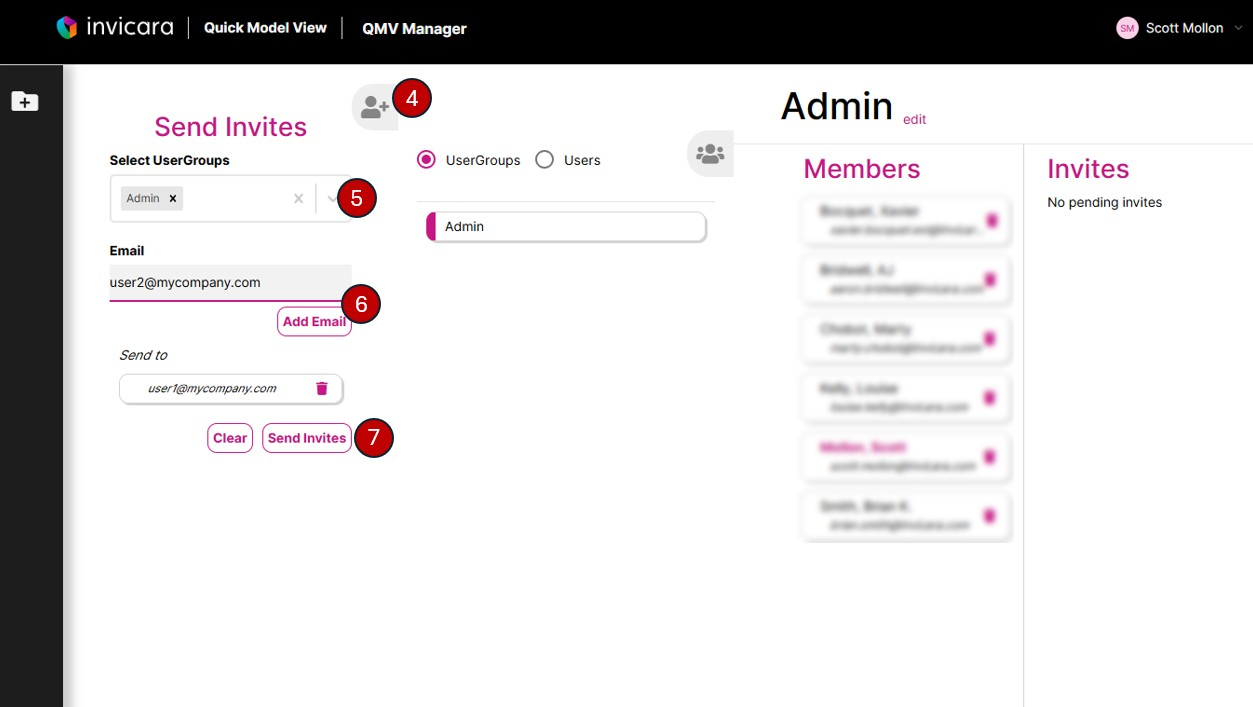
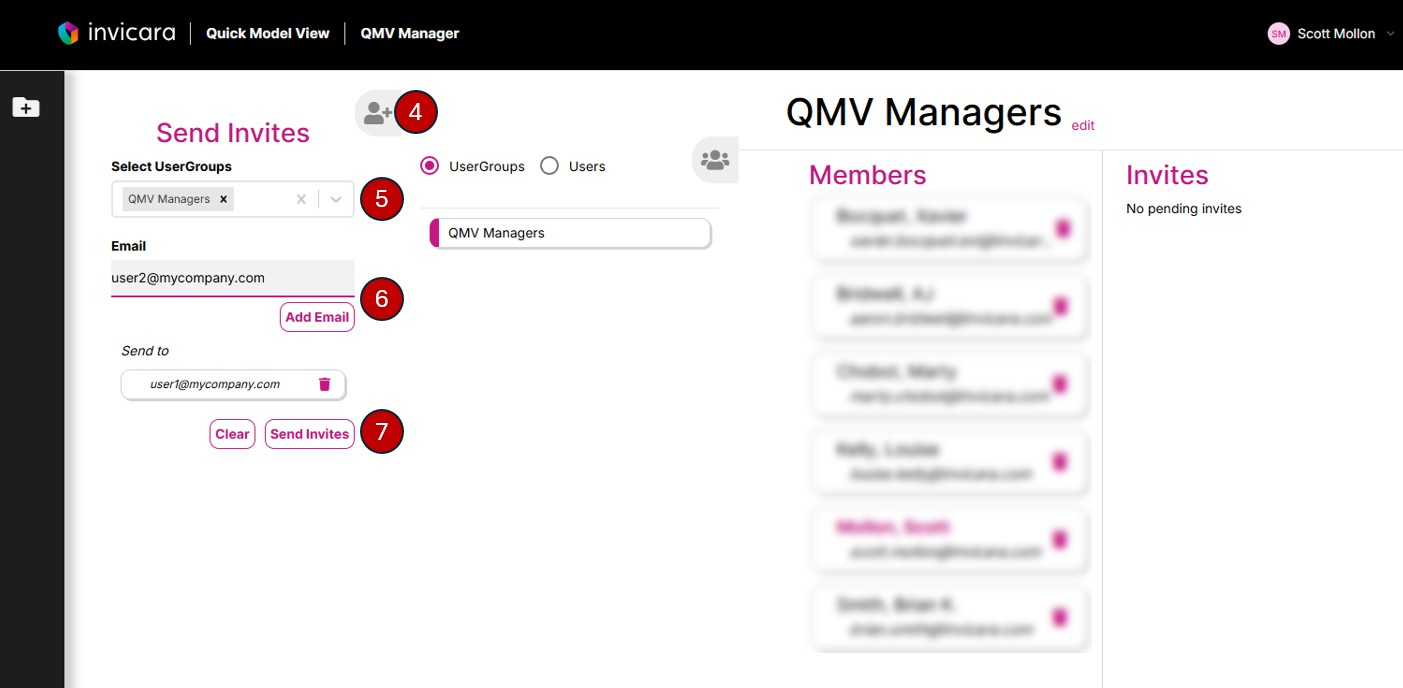
Missed some QMV Managers update, and adding in Home links to go back to the top level readme

diff --git a/docs/user guide/projectmaker/addmakers.md b/docs/user guide/projectmaker/addmakers.md
@@ -6,7 +6,7 @@ To give a user access to the Quick Model View Manager, you will add them to two 
 * The QMV Managers User Group
 
 1. Send your Application Owner responsible for administrating the Quick Model View application the email address for the user you wish to add and ask they are added to the App Developer User Group. Information on how to add App Developers is available in the "Getting Access as an Application Owner or Application Developer" section of the [Developer Guide](../../developer%20guide/deploy/d1-gather.md).
-2. Sign in to a Project Make project
+2. Sign in to a Quick Model View Manager project
 
 ![project maker project](../../img/project-select-maker.jpg)
 
@@ -15,7 +15,7 @@ To give a user access to the Quick Model View Manager, you will add them to two 
 ![user group menu](../../img/click-user-groups.jpg)
 
 4. On the User Groups page expand the "Send Invites" panel
-5. Select the Admin User Group in the "Select UserGroups" dropdown
+5. Select the QMV Managers User Group in the "Select UserGroups" dropdown
 6. Enter the email of the user you want to invite and click Add Email
 8. Click Send Invites
 

diff --git a/docs/user guide/README.md b/docs/user guide/README.md
@@ -11,3 +11,7 @@ The **Quick Model View Application** gives you the ability to upload and import 
 Using the **Quick Model View Manager** you can create new Quick Model View projects. This allows you to separate models and users for different designs or activities into their own workspaces. The **Quick Model View Manager** also allows you to update existing workspaces as new releases of the template become available.
 
 [Learn how to use the Quick Model View Manager](./projectmaker/README.md)
+
+---
+
+[Home](../../README.md) < Back

diff --git a/docs/developer guide/README.md b/docs/developer guide/README.md
@@ -66,3 +66,6 @@ The [Knowledgebase](https://community.digitaltwin-factory.com/knowledgebase-5wzp
 And a community of developers are waiting to answer your questions in the [Ask the Community forum](https://community.digitaltwin-factory.com/ask-the-community).
 
 [![dtf logo](../img/dtfactoryv3.png)](https://community.digitaltwin-factory.com/)
+
+---
+[Home](../../README.md) < Back | Next > [User Guide](../user%20guide/README.md)
